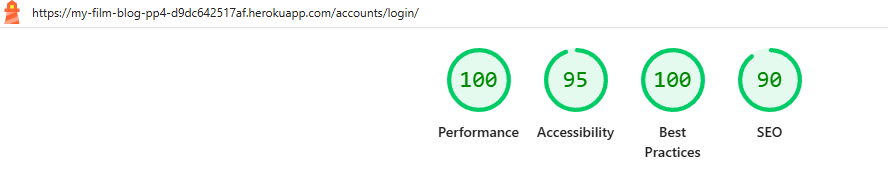
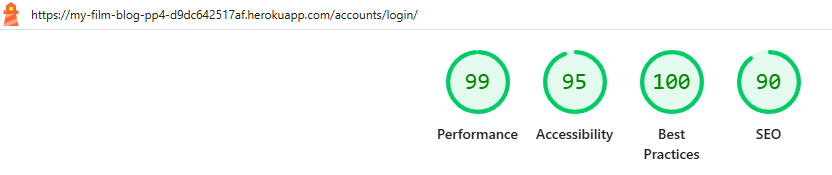
Finalise Lighthouse testing, tidy up README

diff --git a/templates/404.html b/templates/404.html
@@ -3,6 +3,7 @@
 {% load crispy_forms_tags %}
 
 {% block content %}
+<!-- Structure inspired by Dan Morriss's Nialls Barbershop Project -->
 <div class="container mt-5 text-center">
     <div class="row">
         <div class="col-md-8 mt-3 offset-md-2">

diff --git a/README.md b/README.md
@@ -150,7 +150,10 @@ The font used in this project was inspired by a desire to use an uncommon font w
 
 ### Comments
 <img src="images/filmreview-comments-no-login.png" alt="Comments - Not Logged in" style="width: 100%;"><br>
-- To encourage users to engage with content, they are able to view comments and without the need to register or login. However, they are unable to comment or interact with existing comments if they are not registered and signed in. The above image shows the comments view withcomment count for a user that isn't logged in.
+- To encourage users to engage with content, they are able to view comments and without the need to register or login. However, they are unable to comment or interact with existing comments if they are not registered and signed in. The above image shows the comments view with comment count for a user that isn't logged in.
+
+<img src="images/filmreview-user-comments-view.jpg" alt="Comments - Not Logged in" style="width: 100%;"><br>
+- The above image shows the comments view of a logged in user and their ability to edit, update and delete their comments.
 
 - The comments view also displays the number of comments on a post.
 
@@ -500,6 +503,9 @@ The font used in this project was inspired by a desire to use an uncommon font w
 
 #### About Page
 <img src="images/filmreview-lighthouse-about.png" alt="About Page Lighthouse Result" style="width: 100%;"><br>
+
+#### Search Page
+<img src="images/filmreview-lighthouse-search.png" alt="About Page Lighthouse Result" style="width: 100%;"><br>
 
 [Back to Top](#ux)
 
